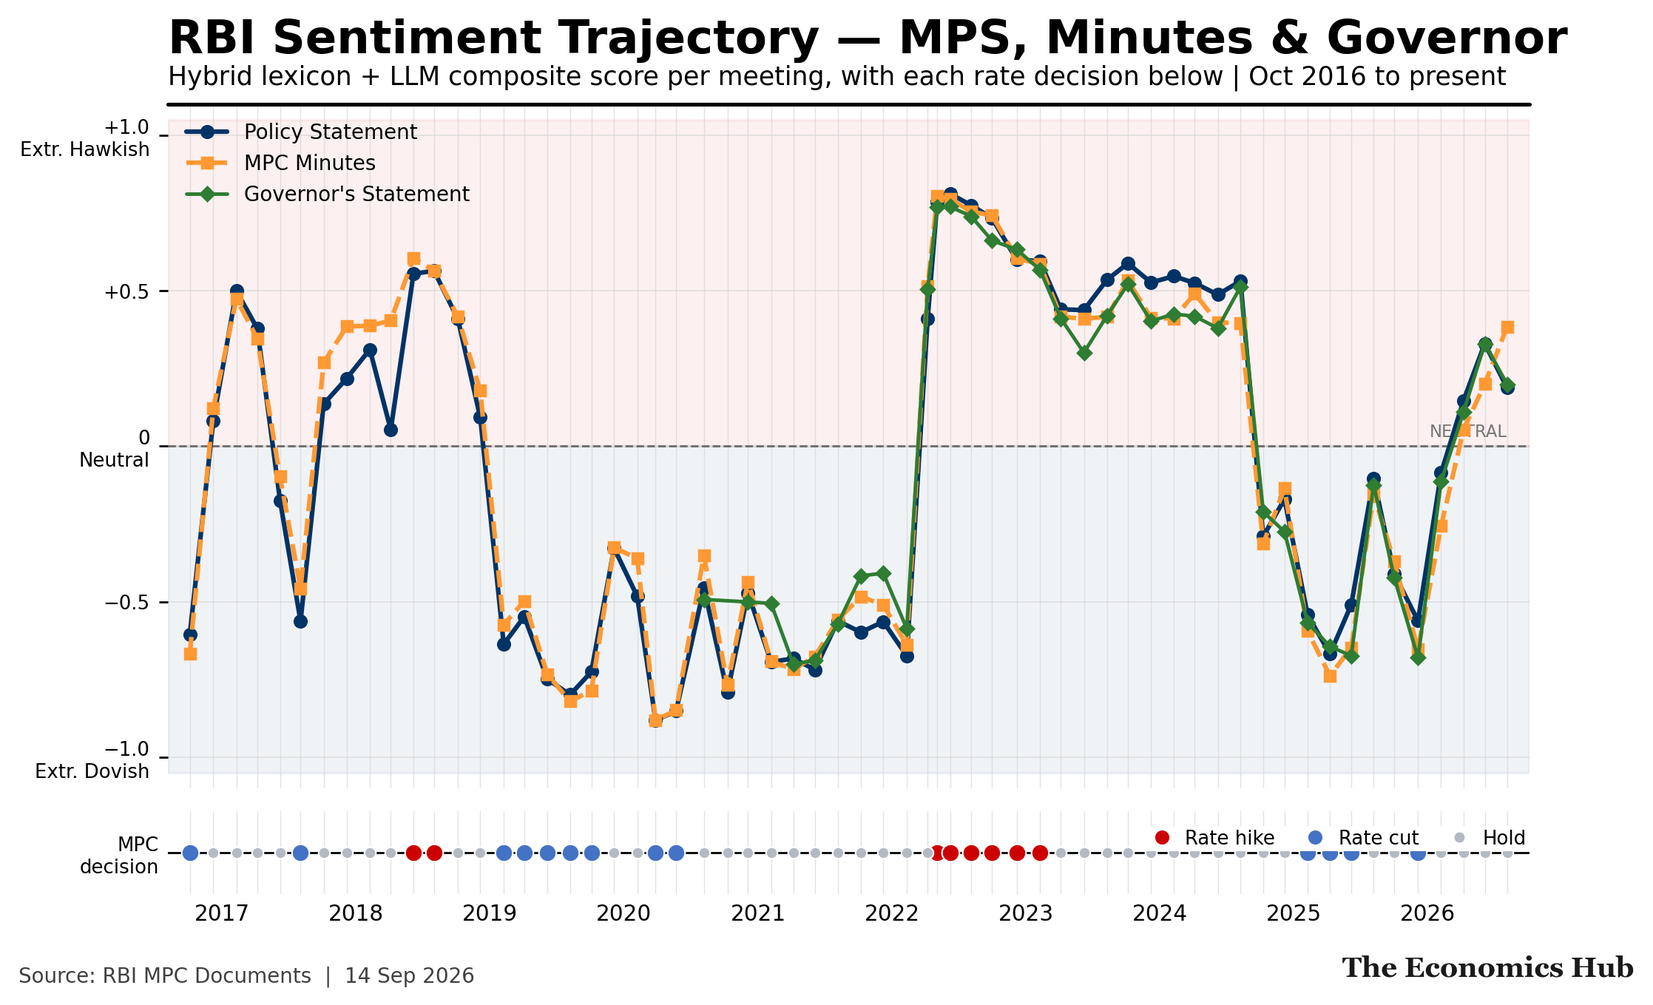
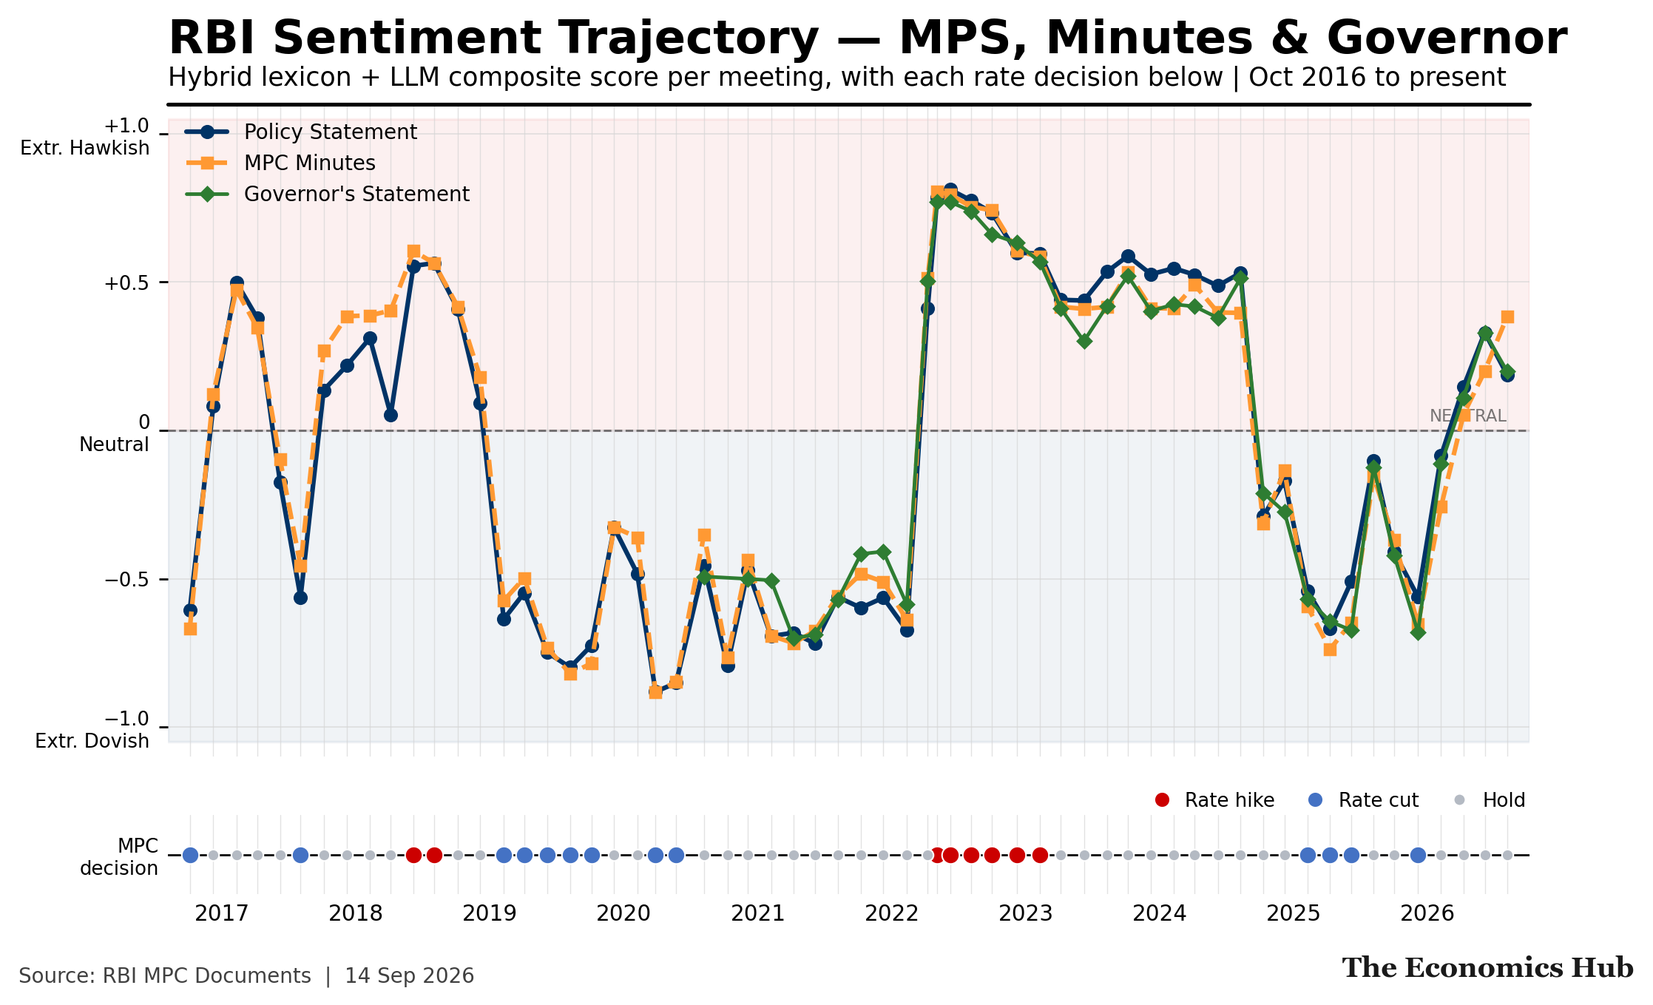
feat(rbi): publish tone vs 10-year G-sec chart; add Claude spend guards
Tone and the Bond Market
  Chart 07 — decision-day 10-year G-sec move against the change in Resolution
  tone, beside the same test on Nifty 50, Bank Nifty, USD/INR, gold and India
  VIX — moves from local-only to the dashboard. It is a static research chart:
  research/make_tone_yield_chart.py draws it to assets/rbi_research/, outside
  the pipeline's month folders so the chart loader never mistakes it for the
  latest set. Its explanation lives in config/insights.py with the others. The
  two third-party price files it is built from (Investing.com, Yahoo Finance)
  stay out of the repository.

Spend guards (every Claude call goes through run_clean_and_score)
  A document is sent to the model only if it
    - belongs to an MPC policy cycle, so stray RBI press releases are never scored
    - meets a per-type minimum length: Resolution 500, Governor 1,000,
      Minutes 2,000 words (shortest genuine documents 2016-2026: 839, 1,719,
      3,185), so schedule notices and one-paragraph releases never are
  and an automated run scores at most 4 documents; a larger backlog is
  reported and nothing is sent. Verified with a call-counting stub: 3 genuine
  documents scored; a 400-word Governor statement, a statement outside any
  cycle, and a 6-document backlog produced zero calls.

Sentiment Over Time: the decision key moves above the strip so it no longer
covers the decision dots.

diff --git a/research/make_tone_yield_chart.py b/research/make_tone_yield_chart.py
@@ -1,0 +1,220 @@
+"""
+research/make_tone_yield_chart.py
+
+Chart 07: change in Resolution tone vs the 10-year G-sec on decision day,
+with the same test run on other Indian markets alongside. A historical
+research chart: drawn once from the analysis inputs and published as a static
+image to assets/rbi_research/, not regenerated by the automated pipeline.
+
+Inputs
+  data/rbi_sentinel.db                                    Resolution scores, rate decisions
+  data/India 10-Year Bond Yield Historical Data(1).csv    daily 10y G-sec (Investing.com)
+  local/rbi_sentinel/market_prices_daily.csv              Nifty, Bank Nifty, USD/INR, gold, India VIX (Yahoo Finance)
+
+The two price files are third-party data and are kept out of the repository
+(.git/info/exclude); only the chart they produce is published.
+
+Run from the project root:  .venv/bin/python research/make_tone_yield_chart.py
+"""
+from __future__ import annotations
+
+import re
+import sqlite3
+import sys
+from pathlib import Path
+
+import matplotlib.pyplot as plt
+import numpy as np
+import pandas as pd
+from matplotlib.lines import Line2D
+
+ROOT = Path(__file__).resolve().parents[1]
+LOCAL_INPUTS = ROOT / "local" / "rbi_sentinel"
+sys.path.insert(0, str(ROOT))
+
+from rbi_sentinel.cleaners.policy_facts import extract_policy_facts  # noqa: E402
+from style.economics_hub_style import EconStyle  # noqa: E402
+
+OUT = ROOT / "assets" / "rbi_research" / "07_rbi_tone_vs_10y.png"
+NAVY, RED, BLUE, GREY = "#003366", "#A61B29", "#1F4E79", "#9AA2AD"
+
+
+# ── Data ──────────────────────────────────────────────────────────────────────
+con = sqlite3.connect(ROOT / "data/rbi_sentinel.db")
+res = pd.read_sql(
+    """SELECT m.policy_cycle, m.rate_action, m.rate_change_bps, s.overall_score AS s_res, d.raw_text
+       FROM mpc_meetings m
+       JOIN rbi_documents d ON d.meeting_id = m.meeting_id AND d.doc_type = 'resolution'
+       JOIN sentiment_scores s ON s.doc_id = d.doc_id AND s.scoring_model_version = 'hybrid_v2'
+       WHERE m.meeting_date = m.policy_cycle
+       ORDER BY m.policy_cycle""", con)
+res["date"] = pd.to_datetime(res.policy_cycle)
+res["bps"] = np.where(res.rate_action == "hold", 0.0, res.rate_change_bps.fillna(0).astype(float))
+
+
+def stated_stance(text: str) -> float:
+    """Ordinal stated stance: accommodative −1, neutral 0, tightening +1."""
+    t = " ".join((text or "").split())
+    s = extract_policy_facts(t)["stated_stance"]
+    if s is None:
+        m = re.search(r"consistent with (?:an?|the) (accommodative|neutral) stance|stance of (calibrated tightening)|"
+                      r"maintain the (neutral|accommodative) (?:monetary policy )?stance|keep the (?:policy )?stance (neutral)",
+                      t, re.I)
+        s = next(x for x in m.groups() if x).lower() if m else None
+    return {"accommodative": -1, "neutral": 0, "calibrated tightening": 1,
+            "withdrawal of accommodation": 1}.get(s, np.nan)
+
+
+res["stance"] = res.raw_text.map(stated_stance)
+# Apr/May 2022 Resolutions: "remain accommodative while focusing on withdrawal of accommodation"
+res.loc[res.policy_cycle.isin(["2022-04-08", "2022-05-04"]), "stance"] = 1
+res["d_tone"] = res.s_res.diff()
+res["d_stance"] = res.stance.diff().fillna(0)
+
+g = pd.read_csv(ROOT / "data/India 10-Year Bond Yield Historical Data(1).csv", encoding="utf-8-sig")
+g["Date"] = pd.to_datetime(g.Date, format="%d-%m-%Y")
+y10 = g.set_index("Date").sort_index().Price.astype(float)
+px = pd.read_csv(LOCAL_INPUTS / "market_prices_daily.csv", index_col=0, parse_dates=True)
+px["gold_inr"] = px.gold_usd * px.usdinr
+px = px.reindex(px.nifty.dropna().index).ffill()   # Indian trading calendar for every market
+
+
+def day_move(series: pd.Series, d: pd.Timestamp, kind: str) -> float:
+    s = series.dropna()
+    i = s.index.searchsorted(d)
+    if i < 1 or i >= len(s):
+        return np.nan
+    a, b = s.iloc[i - 1], s.iloc[i]
+    return (b - a) * 100 if kind == "bps" else (b - a) if kind == "pts" else (np.log(b) - np.log(a)) * 100
+
+
+res["y10"] = [day_move(y10, d, "bps") for d in res.date]
+MARKETS = [("y10", "10-year G-sec yield"), ("nifty", "Nifty 50"), ("banknifty", "Bank Nifty"),
+           ("usdinr", "USD/INR"), ("gold_inr", "Gold (₹)"), ("vix", "India VIX")]
+for col, _ in MARKETS[1:]:
+    res[col] = [day_move(px[col], d, "pts" if col == "vix" else "pct") for d in res.date]
+
+
+# ── OLS with Newey–West (HAC, 1 lag) standard errors ────────────────────────
+def ols_hac(y: np.ndarray, X: np.ndarray, lags: int = 1):
+    X = np.column_stack([np.ones(len(X)), X])
+    n, k = X.shape
+    xtx_inv = np.linalg.inv(X.T @ X)
+    beta = xtx_inv @ X.T @ y
+    u = y - X @ beta
+    xu = X * u[:, None]
+    S = xu.T @ xu
+    for L in range(1, lags + 1):
+        w = 1 - L / (lags + 1)
+        G = xu[L:].T @ xu[:-L]
+        S += w * (G + G.T)
+    cov = xtx_inv @ S @ xtx_inv                     # no small-sample scaling (statsmodels HAC default)
+    return beta, np.sqrt(np.diag(cov)), 1 - (u @ u) / ((y - y.mean()) @ (y - y.mean()))
+
+
+stats = {}
+for col, label in MARKETS:
+    d = res.dropna(subset=[col, "bps", "d_stance", "d_tone"])
+    b, se, r2 = ols_hac(d[col].values, d[["bps", "d_stance", "d_tone"]].values)
+    stats[col] = dict(label=label, beta=b[3], t=b[3] / se[3], n=len(d), r2=r2)
+d10 = res.dropna(subset=["y10", "d_tone"])
+b_simple = np.polyfit(d10.d_tone, d10.y10, 1)
+sd_tone = d10.d_tone.std()
+s10 = stats["y10"]
+print(f"10y: beta={s10['beta']:+.2f} bps/unit  t={s10['t']:+.2f}  n={s10['n']}  R2={s10['r2']:.3f}  "
+      f"typical shift sd={sd_tone:.2f} → {s10['beta'] * sd_tone:+.1f} bps;  simple slope {b_simple[0]:+.1f}")
+for col, _ in MARKETS[1:]:
+    print(f"{col:10s} t={stats[col]['t']:+.2f}")
+
+
+# ── Chart ─────────────────────────────────────────────────────────────────────
+EconStyle.apply_global_style()
+fig = plt.figure(figsize=(12.5, 6.4))
+fig.patch.set_facecolor(EconStyle.BACKGROUND)
+gs = fig.add_gridspec(1, 2, width_ratios=[1.75, 1], wspace=0.30)
+ax = fig.add_subplot(gs[0])
+axb = fig.add_subplot(gs[1])
+
+# Left: scatter
+holds = d10[d10.bps == 0]
+hikes = d10[d10.bps > 0]
+cuts = d10[d10.bps < 0]
+ax.axhline(0, color="#000000", lw=0.7, alpha=0.5, zorder=1)
+ax.axvline(0, color="#000000", lw=0.7, alpha=0.5, zorder=1)
+xs = np.linspace(d10.d_tone.min() - 0.05, d10.d_tone.max() + 0.05, 50)
+ax.plot(xs, np.polyval(b_simple, xs), color=NAVY, lw=1.6, alpha=0.85, zorder=2)
+ax.scatter(holds.d_tone, holds.y10, s=46, color=NAVY, alpha=0.85, edgecolor="white", lw=0.6, zorder=3)
+ax.scatter(hikes.d_tone, hikes.y10, s=52, facecolor="white", edgecolor=RED, lw=1.6, zorder=3)
+ax.scatter(cuts.d_tone, cuts.y10, s=52, facecolor="white", edgecolor=BLUE, lw=1.6, zorder=3)
+
+ax.set_xlabel("Change in Resolution tone vs previous meeting  (−1 dovish … +1 hawkish scale)", fontsize=8.5)
+ax.set_ylabel("10-year G-sec yield change on decision day (bps)", fontsize=8.5)
+ax.tick_params(labelsize=8)
+ax.yaxis.grid(True, color=EconStyle.GRID_COLOR, lw=0.5, alpha=0.6)
+ax.xaxis.grid(False)
+ax.set_ylim(min(-20, d10.y10.min() - 4), d10.y10.max() + 6)
+ax.text(0.98, 0.04,
+        f"+{s10['beta']:.1f} bps per unit of tone change  (t = {s10['t']:.1f})\n"
+        f"≈ +{s10['beta'] * sd_tone:.0f} bps for a typical shift\n"
+        f"controlling for the rate decision and any stance change",
+        transform=ax.transAxes, va="bottom", ha="right", fontsize=7.8, color="#1A1A1A", linespacing=1.4,
+        bbox=dict(boxstyle="round,pad=0.45", facecolor="white", edgecolor="#D6D6D6", lw=0.8))
+ax.legend(handles=[
+    Line2D([], [], marker="o", ls="", color=NAVY, markersize=6, label="Hold"),
+    Line2D([], [], marker="o", ls="", markerfacecolor="white", markeredgecolor=RED, mew=1.5, markersize=6, label="Hike"),
+    Line2D([], [], marker="o", ls="", markerfacecolor="white", markeredgecolor=BLUE, mew=1.5, markersize=6, label="Cut"),
+], loc="upper left", fontsize=7.8, frameon=False, ncol=3, handletextpad=0.3, columnspacing=1.0)
+ax.plot([0, 1], [1, 1], color=EconStyle.RULE_LIGHT, lw=0.8, transform=ax.transAxes, clip_on=False, zorder=10)
+
+# Right: the same test across markets
+order = [c for c, _ in MARKETS]
+tvals = [stats[c]["t"] for c in order]
+labels = [stats[c]["label"] for c in order]
+ypos = np.arange(len(order))[::-1]
+colors = [NAVY if abs(t) >= 1.96 else GREY for t in tvals]
+axb.barh(ypos, tvals, color=colors, height=0.58, zorder=3)
+for yp, t in zip(ypos, tvals):
+    axb.text(t + (0.12 if t >= 0 else -0.12), yp, f"{t:+.1f}", va="center",
+             ha="left" if t >= 0 else "right", fontsize=7.8, color="#1A1A1A")
+axb.axvspan(-1.96, 1.96, color="#EEF1F5", zorder=1)
+for x in (-1.96, 1.96):
+    axb.axvline(x, color="#9AA2AD", lw=0.8, ls="--", zorder=2)
+axb.axvline(0, color="#000000", lw=0.7, zorder=2)
+axb.set_yticks(ypos)
+axb.set_yticklabels(labels, fontsize=8.2)
+lim = max(4.6, max(abs(t) for t in tvals) + 0.9)
+axb.set_xlim(-lim, lim)
+axb.set_xlabel("t-statistic on tone change (robust SEs)", fontsize=8.5)
+axb.tick_params(axis="x", labelsize=8)
+axb.xaxis.grid(False)
+axb.yaxis.grid(False)
+axb.text(0, -1.02, "not significant  (|t| < 1.96)", ha="center", va="bottom", fontsize=7, color="#6B7380")
+axb.set_ylim(-1.15, len(order) - 0.4)
+axb.plot([0, 1], [1, 1], color=EconStyle.RULE_LIGHT, lw=0.8, transform=axb.transAxes, clip_on=False, zorder=10)
+
+# Panel headings and a figure-wide title, so the two titles cannot collide
+ax.text(0.0, 1.03, "Decision-day move in the 10-year G-sec vs change in Resolution tone",
+        transform=ax.transAxes, fontsize=9.5, fontweight="bold", va="bottom", ha="left")
+axb.text(0.0, 1.03, "Same test on other markets", transform=axb.transAxes,
+         fontsize=9.5, fontweight="bold", va="bottom", ha="left")
+# House title block, as EconStyle.set_title + add_top_rule draw it on single-panel
+# charts: bold title, subtitle directly beneath, heavy rule spanning the chart.
+LEFT, RIGHT = 0.07, 0.97
+fig.text(LEFT, 0.985, "Resolution Tone and the 10-Year G-Sec on Decision Day",
+         fontproperties=EconStyle._get_font("bold"), fontsize=EconStyle.FONT_SIZE_TITLE,
+         color=EconStyle.TEXT_TITLE, va="top", ha="left")
+fig.text(LEFT, 0.937, "A more hawkish Resolution than the last lines up with higher bond yields that day; "
+         "equities, the rupee and gold show no link",
+         fontproperties=EconStyle._get_font("regular"), fontsize=EconStyle.FONT_SIZE_SUBTITLE,
+         color=EconStyle.TEXT_SECONDARY, va="top", ha="left")
+fig.add_artist(Line2D([LEFT, RIGHT], [0.898, 0.898], transform=fig.transFigure,
+                      color=EconStyle.RULE_HEAVY, lw=1.5))
+
+EconStyle.add_source(
+    fig,
+    f"RBI MPC Resolutions scored by RBI Sentinel; 10y G-sec: Investing.com; markets: Yahoo Finance · "
+    f"{s10['n']} decisions, {d10.date.min():%b %Y} – {d10.date.max():%b %Y}",
+)
+fig.subplots_adjust(left=LEFT, right=RIGHT, top=0.83, bottom=0.12)
+EconStyle.save_chart(fig, OUT)
+print("saved", OUT)

diff --git a/rbi_sentinel/pipeline.py b/rbi_sentinel/pipeline.py
@@ -39,6 +39,16 @@ log = logging.getLogger("rbi_sentinel.pipeline")
 # not a document-level one, and continuing just burns wall-clock time.
 MAX_CONSECUTIVE_SCORING_FAILURES = 5
 
+# ── Spend guards: every Claude call goes through run_clean_and_score ───────────
+# A document is sent to the model only if it belongs to an MPC policy cycle and
+# is at least this long. The shortest genuine documents scored 2016–2026 are
+# 839 (Resolution), 1,719 (Governor's Statement) and 3,185 (Minutes) words;
+# RBI's pre-meeting schedule notices and one-paragraph releases fall far short.
+MIN_WORDS_TO_SCORE = {DOC_RESOLUTION: 500, DOC_GOVERNOR: 1000, DOC_MINUTES: 2000}
+# An automated run never needs more than this: a decision day brings the
+# Resolution and Governor's Statement, Minutes day brings one document.
+MAX_DOCUMENTS_PER_AUTO_RUN = 4
+
 
 # ── Chart imports (lazy) ────────────────────────────────────────────────────────
 
@@ -271,10 +281,15 @@ def run_clean_and_score(
     full_rescore: bool = False,
     dry_run: bool = False,
     review_mode: bool = False,
+    max_documents: Optional[int] = None,
 ) -> tuple[int, int]:
     """
     Clean raw text from cached documents and score with hybrid scorer.
     Returns (documents scored, documents that could not be scored).
+
+    max_documents: if more documents than this are pending, score none and
+    report them all as unscored — used by automated runs so an unexpected
+    backlog can never turn into an unplanned API bill.
     If full_rescore=True, re-score all documents (regardless of existing scores).
     If review_mode=True, print narratives to stdout without writing to DB.
     """
@@ -310,9 +325,27 @@ def run_clean_and_score(
             and (d.get("raw_text") or (d.get("cache_path") and Path(d["cache_path"]).exists()))
         ]
 
+    # Spend guard 1: only documents attached to an MPC policy cycle
+    in_cycle = db.meeting_ids_in_cycles()
+    outside = [d for d in docs_to_score if d["meeting_id"] not in in_cycle]
+    for d in outside:
+        log.warning("Not scoring %s %s: not attached to any MPC decision", d["doc_type"], d["publication_date"])
+    docs_to_score = [d for d in docs_to_score if d["meeting_id"] in in_cycle]
+
     if not docs_to_score:
         log.info("No documents pending scoring")
         return 0, 0
+
+    # Spend guard 3: an unexpected backlog is reported, never scored
+    if max_documents is not None and len(docs_to_score) > max_documents:
+        log.error(
+            "Refusing to score %d documents in one automated run (limit %d): %s. "
+            "Nothing was sent to the model. Check these are genuine MPC documents, "
+            "then score them with a manual run.",
+            len(docs_to_score), max_documents,
+            ", ".join(f"{d['doc_type']} {d['publication_date']}" for d in docs_to_score),
+        )
+        return 0, len(docs_to_score)
 
     log.info("%d documents to score", len(docs_to_score))
 
@@ -350,6 +383,15 @@ def run_clean_and_score(
 
         # Normalize
         norm = text_normalizer.normalize(raw_text)
+
+        # Spend guard 2: too short to be a real MPC document
+        min_words = MIN_WORDS_TO_SCORE.get(doc_type, 500)
+        if norm["word_count"] < min_words:
+            log.warning(
+                "Not scoring %s %s: %d words, below the %d-word minimum for this document type",
+                doc_type, publication_date, norm["word_count"], min_words,
+            )
+            continue
 
         if dry_run:
             log.info(

diff --git a/config/insights.py b/config/insights.py
@@ -470,6 +470,20 @@ Resolution, the committee's official statement is understating internal pressure
 be underpricing the risk of a hawkish surprise at the next meeting.
 """,
 
+    "rbi_tone_vs_10y": """\
+**How to read this chart:** Each dot on the left is one MPC decision since December 2016. Across is the change in the Resolution's tone score from the previous meeting (−1 most dovish to +1 most hawkish); up is the change in the 10-year G-sec yield from the previous day's close to the close on decision day. The Resolution is released during bond-market hours, so that day's close already reflects it. Filled dots are holds; hollow dots are hikes (red) and cuts (blue). The panel on the right runs exactly the same test on other markets: a bar outside the shaded band is statistically significant. Why the 10-year yield matters: it is India's benchmark long-term interest rate. It sets the base cost of government borrowing, anchors the pricing of corporate bonds, bank loans and home loans, and feeds into the discount rate used to value equities, so it is the main channel through which a shift in the RBI's message reaches the wider economy and investors' portfolios.
+
+**Findings:** Changes in the Resolution's tone line up with 10-year G-sec moves on decision day, historically about 5 bps per typical shift. Testing on new meetings is under way. In numbers: +15.7 bps per unit of tone change (t = 4.0), after controlling for the rate decision itself and any change in the stated stance. Tone raises the share of the day's move explained from 18% to 37%. The Resolution carries the signal; the Governor's Statement adds nothing beyond it. The level of tone does not move yields — only the change does, which is how a policy surprise behaves.
+
+**Other financial markets:** The same question was put to the Nifty 50, Bank Nifty, USD/INR, gold in rupees and India VIX, and to 91-day and 364-day T-bill yields, over three windows: decision day, the day after the Minutes are released, and the following one and three months. Each was tested with the Resolution, the Governor's Statement and the full composite separately, and corrected for running many tests at once. Equities, the rupee, gold and volatility show no relationship in any window. An apparent link to future T-bill yields disappeared once their normal pull back toward the repo rate was accounted for.
+
+**How robust the bond result is:** It holds excluding 2020, excluding the three off-cycle meetings, before and after 2022, and with any single meeting removed (t stays above 3.5). On 5,000 sets of random non-meeting days, a result this strong appeared 0.02% of the time, and yields show nothing in the five days before a meeting.
+
+**What it does not show:** This is not a forecast of where yields go next, and it is not investment advice. The effect comes entirely from the language model's reading of the text — a simple keyword count shows nothing — and every historical meeting predates the model's training cutoff, so hindsight cannot be fully ruled out. Only meetings scored live, before the market closes, can settle that.
+
+*Data: RBI Sentinel Resolution scores; 10-year G-sec yield, Investing.com (checked against FBIL weekly); Nifty 50, Bank Nifty, USD/INR, gold and India VIX, Yahoo Finance. 60 decisions, December 2016 – August 2026. Regressions use Newey–West standard errors.*
+""",
+
     "rbi_sentiment_trajectory": """\
 **How to read this chart:** Each point is one MPC meeting's tone score, from −1 (most dovish) to +1 \
 (most hawkish), read separately from the three documents: the Policy Statement (the Resolution, \

diff --git a/rbi_sentinel/charts/sentiment_trajectory.py b/rbi_sentinel/charts/sentiment_trajectory.py
@@ -61,7 +61,7 @@ def generate(
 
     fig, (ax, ax_dec) = plt.subplots(
         2, 1, figsize=(EconStyle.SIZE_WIDE[0], EconStyle.SIZE_WIDE[1] + 0.75),
-        sharex=True, gridspec_kw={"height_ratios": [6.2, 0.75], "hspace": 0.06},
+        sharex=True, gridspec_kw={"height_ratios": [6.2, 0.75], "hspace": 0.16},
     )
     fig.patch.set_facecolor(EconStyle.BACKGROUND)
     ax.set_facecolor(EconStyle.BACKGROUND)
@@ -138,9 +138,9 @@ def generate(
                markersize=6.5 if a != "hold" else 5, label=st["label"])
         for a, st in _DECISION_STYLE.items()
     ]
-    # Key inside the strip's own white space, right-aligned above its line, so it
-    # reads as part of the strip rather than the score panel.
-    ax_dec.legend(handles=decision_handles, loc="lower right", bbox_to_anchor=(1.0, 0.52),
+    # Key in the gap between the two panels, right-aligned directly above the
+    # strip, so it reads as the strip's key and never covers a decision dot.
+    ax_dec.legend(handles=decision_handles, loc="lower right", bbox_to_anchor=(1.0, 1.02),
                   ncol=3, fontsize=7.5, frameon=True, facecolor=EconStyle.BACKGROUND,
                   edgecolor="none", framealpha=1.0, handletextpad=0.2, columnspacing=1.1,
                   borderpad=0.15, borderaxespad=0.0)

diff --git a/app.py b/app.py
@@ -1793,6 +1793,18 @@ with tab_rbi:
                 with st.expander("ℹ Chart Insights"):
                     st.markdown(insight)
 
+        # ── Tone and the bond market ──
+        # A static research chart (research/make_tone_yield_chart.py); it is not
+        # part of the automated pipeline's month folders.
+        _tone_chart = PROJECT_ROOT / "assets" / "rbi_research" / "07_rbi_tone_vs_10y.png"
+        if _tone_chart.exists():
+            _section("Tone and the Bond Market")
+            st.image(str(_tone_chart), use_container_width=True)
+            insight = get_insight(_tone_chart.name)
+            if insight:
+                with st.expander("ℹ Chart Insights & Testing Method"):
+                    st.markdown(insight)
+
         # ── Governor Signal Analysis ──
         gov_divergence, charts = _pop_summary(charts, ["07_rbi_governor_divergence"])
 

diff --git a/generate_rbi_sentinel.py b/generate_rbi_sentinel.py
@@ -135,10 +135,12 @@ def main() -> None:
             run_assign_cycles()
 
             # ── Stage 2: Clean + Score (composites recomputed inside) ─────────
+            from rbi_sentinel.pipeline import MAX_DOCUMENTS_PER_AUTO_RUN
             scored, failed = run_clean_and_score(
                 full_rescore=args.full,
                 dry_run=False,
                 review_mode=args.review_mode,
+                max_documents=MAX_DOCUMENTS_PER_AUTO_RUN if args.auto else None,
             )
             if failed:
                 problems.append(f"{failed} document(s) could not be scored")

diff --git a/rbi_sentinel/db/manager.py b/rbi_sentinel/db/manager.py
@@ -615,6 +615,13 @@ def get_live_resolution_scores(model_version: str = SCORING_MODEL_VERSION) -> Op
     }
 
 
+def meeting_ids_in_cycles() -> set[int]:
+    """Meeting rows attached to an MPC policy cycle — the only ones whose documents are scored."""
+    with _connect() as conn:
+        rows = conn.execute("SELECT meeting_id FROM mpc_meetings WHERE policy_cycle IS NOT NULL").fetchall()
+    return {r[0] for r in rows}
+
+
 def latest_publication_date() -> Optional[str]:
     """Newest publication_date of any stored document (YYYY-MM-DD)."""
     with _connect() as conn:
